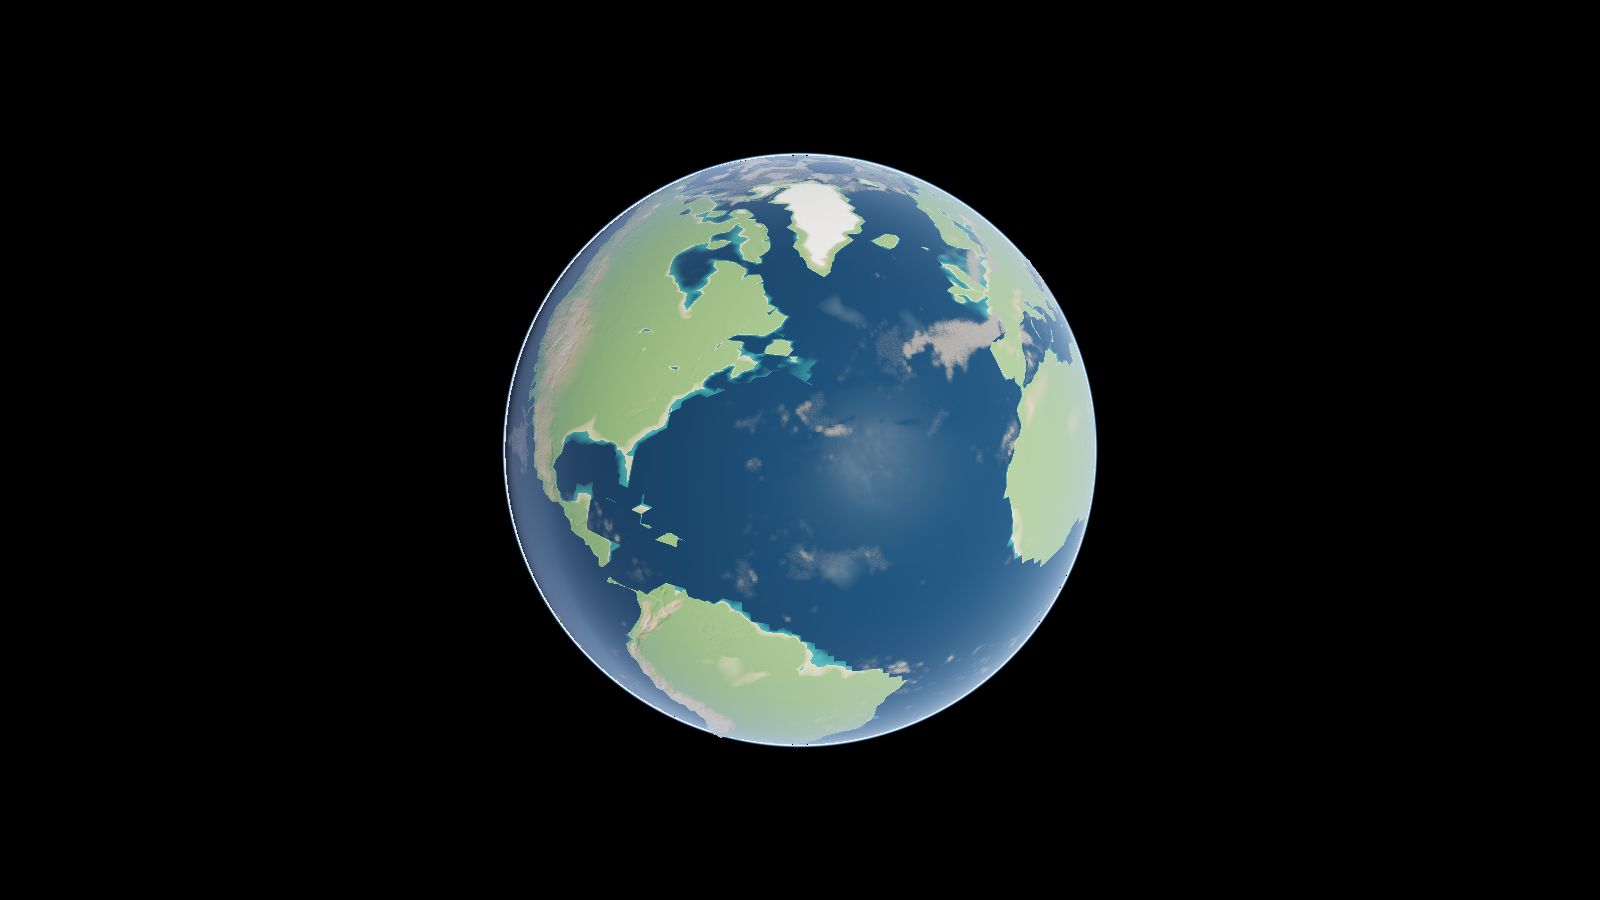
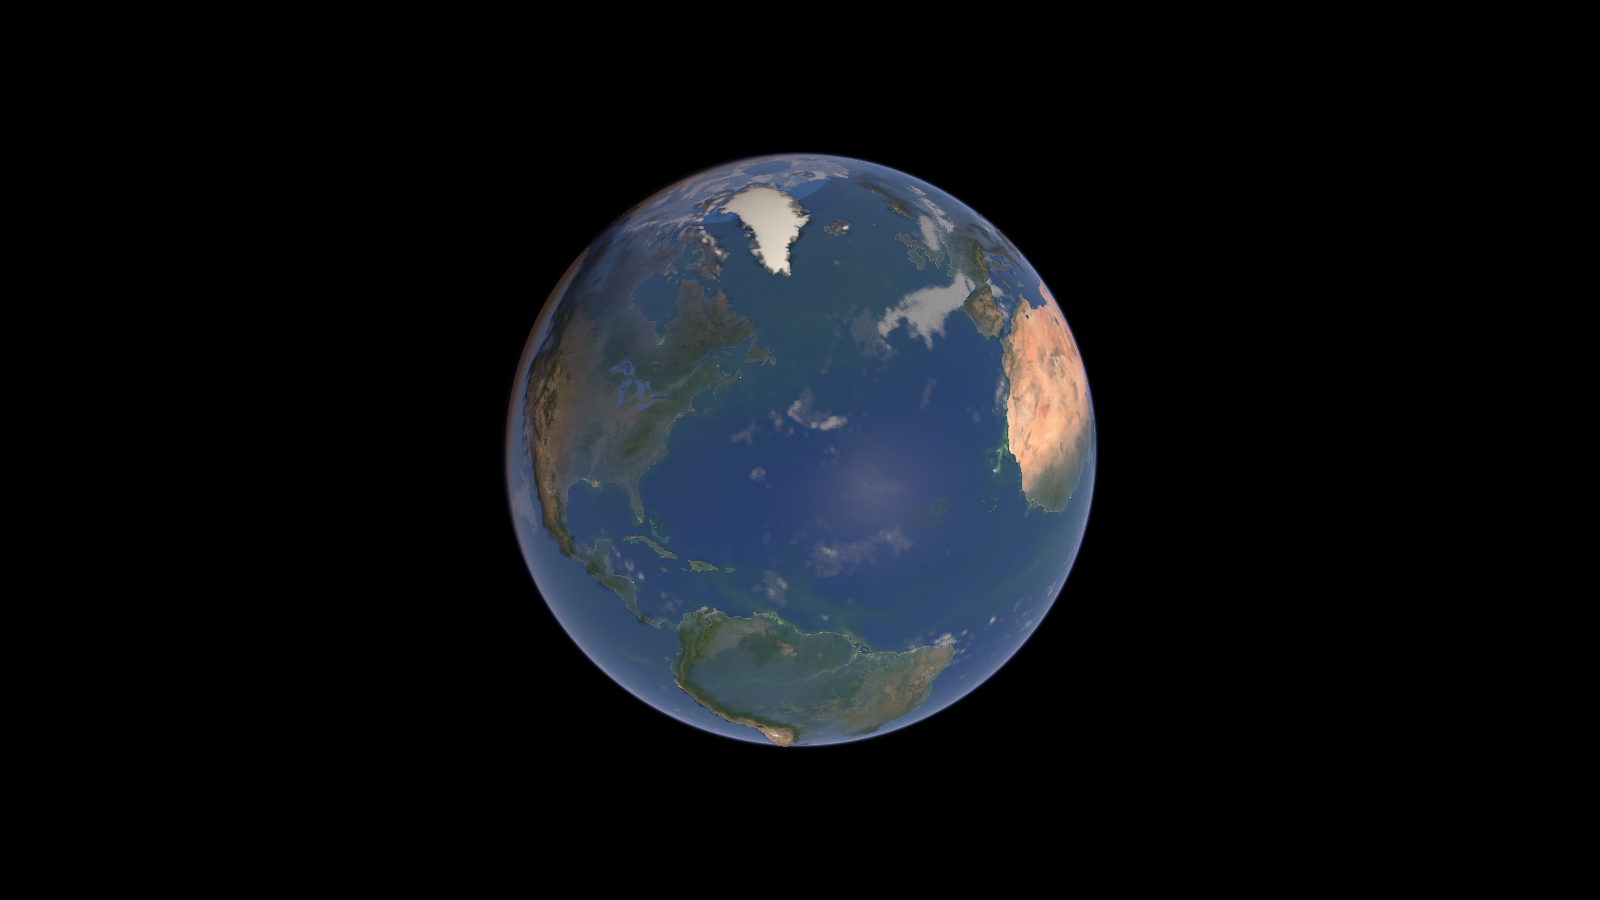
README: re-shoot the three stills on today's engine and add the gate, Droste and Skyfall demos.

Changed region(s): [[0.3125, 0.1556, 0.6875, 0.84]]

diff --git a/README.md b/README.md
@@ -4,13 +4,17 @@ A real-time, data-driven global ocean simulator built around geometric algebra: 
 the state, the GPU carries the phase, and everything stateful lives as sparse exceptions in
 tiled-resource grade banks.
 
-![The planet with today's live GFS weather](docs/globe_live_weather.png)
-*The quad-sphere earth with the day's actual clouds — GFS isobaric cloud fraction ray-cast
-through a sparse 3D volume bank where a NULL tile IS clear air.*
+![The planet with the day's GFS weather](docs/globe_live_weather.png)
+*The quad-sphere earth with the actual clouds of 2026-08-28: GFS isobaric cloud fraction
+ray-cast through a sparse 3D volume bank where a NULL tile IS clear air.*
 
-| ![Helm view in the storm ebb](docs/helm_ebb.png) | ![New England at 15 arc-seconds](docs/new_england_15s.png) |
+| ![Helm view in the storm ebb](docs/helm_ebb.png) | ![New England from 220 km](docs/new_england_15s.png) |
 |---|---|
-| *The Merrimack entrance at mid-ebb, helm height* | *New England from 220 km (ETOPO 15″ ring)* |
+| *The Merrimack entrance at mid-ebb, helm height, on the solved storm sea* | *New England from 220 km: imagery over the elevation tree* |
+
+| ![The Haulover gate corridor from the helm](docs/gate_corridor_helm.png) | ![The Droste boat](docs/droste_boat.png) | ![Skyfall](docs/skyfall_gate.png) |
+|---|---|---|
+| *The Haulover gate at sunset: each window opens on Miami's inlet, and the window inside it opens back here* | *The Droste boat: the RHIB at the helm, and the globe within the globe over the inlet* | *Skyfall: a gate whose far end looks straight down on the Bahama Bank from 100 km* |
 
 The plan lives in
 [GAMEPLAN.md](GAMEPLAN.md); this README covers what exists today: **M0** (the tiled-resource
